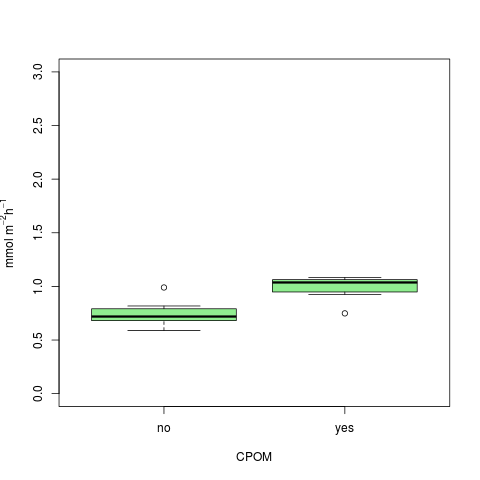
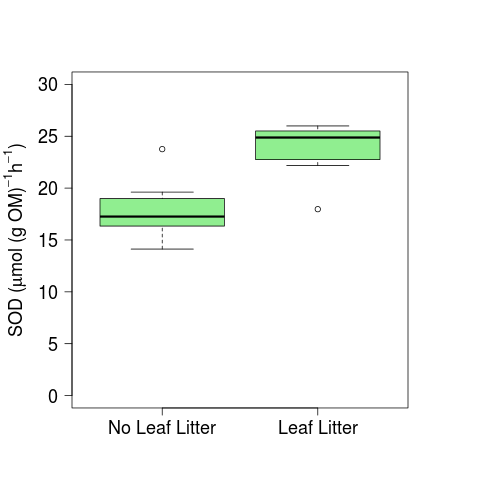
refined plots again

diff --git a/lab_notebook_entries/data_analysis/code/CPOM_Flux_Exp_SOD_analysis.md b/lab_notebook_entries/data_analysis/code/CPOM_Flux_Exp_SOD_analysis.md
@@ -806,8 +806,27 @@ Residuals     11 0.14726 0.01339
 
 _Area SOD by CPOM_
 
-    plot(mean.OMflux ~ nutrient, data = sod17, ylab = expression(paste("mmol m"^{-2},"h"^{-1})), ylim = c(0, 3 ), col = "orange")
-    dev.copy(png, "./output/plots/CPOM_flux_OMflux_by_Nutrient_all.png")
+    plot((mean.OMflux * 24) ~ CPOM, data = sod17, ylab = expression(paste("SOD (", mu,"mol (g OM)"^{-1},"h"^{-1}, ")")), ylim = c(0, 30), col = "light green", axes = F, xlab = " ", cex.lab = 1.5)
+    axis(1, at = c(1, 2), labels = c("No Leaf Litter", "Leaf Litter"), cex.axis = 1.5)
+    axis(2, las = 2, cex.axis = 1.5)
+    box()
+    dev.copy(png, "./output/plots/CPOM_flux_OMflux_by_CPOM_all.png")
+    dev.off()
+    dev.copy(pdf, "./output/plots/CPOM_flux_OMflux_by_CPOM_all.pdf")
+    dev.off()
+
+![OM normalized SOD by CPOM](../output/plots/CPOM_flux_OMflux_by_CPOM_all.png)
+
+_OM Normalized SOD by CPOM_
+
+
+    plot((mean.OMflux * 24) ~ nutrient, data = sod17, ylab = expression(paste("SOD (", mu,"mol (g OM)"^{-1},"h"^{-1}, ")")), ylim = c(0, 30), col = "orange", axes = F, xlab = " ", cex.lab = 1.5)
+    axis(1, at = c(1, 2), labels = c("Ambient Nutrients", "Enriched Nutrients"), cex.axis = 1.5)
+    axis(2, las = 2, cex.axis = 1.5)
+    box()
+    dev.copy(png, "./output/plots/CPOM_flux_OMflux_by_nutrient_all.png")
+    dev.off()
+    dev.copy(pdf, "./output/plots/CPOM_flux_OMflux_by_nutrient_all.pdf")
     dev.off()
 
 ![OM normalized SOD by CPOM](../output/plots/CPOM_flux_OMflux_by_nutrient_all.png)
@@ -876,7 +895,7 @@ _Areal SOD by Date with Nutrients_
     sod.OM <- sod.OM.mmol * 1000 # flux in umol O2 / g OM / d
 
     par(mar = c(5, 5, 5, 5))
-    plot(sod.OM ~ days.elap, data = sod.tot, subset = CPOM == "yes", pch = 19, ylim = c(0, 50), ylab = expression(paste("SOD (", mu,"mol (g OM)"^{-2}, "d"^{-1}, ")")), xlab = "Experiment Days", cex.lab = 1.5, axes = F, cex = 1.5, col = "brown")
+    plot(sod.OM ~ days.elap, data = sod.tot, subset = CPOM == "yes", pch = 19, ylim = c(0, 50), ylab = expression(paste("SOD (", mu,"mol (g OM)"^{-1}, "d"^{-1}, ")")), xlab = "Experiment Days", cex.lab = 1.5, axes = F, cex = 1.5, col = "brown")
     axis(1, las = 1, cex = 1.5)
     axis(2, las = 2, cex = 1.5)
     points(sod.OM ~ days.elap, data = sod.tot, subset = CPOM == "no", pch = 8, cex = 1.5, col = "blue")
@@ -891,7 +910,7 @@ _Areal SOD by Date with Nutrients_
 _OM normalized SOD by Date_
 
     par(mar = c(5, 5, 5, 5))
-    plot(sod.OM ~ days.elap, data = sod.tot, subset = nutrient == "yes", pch = 17, ylim = c(0, 50), ylab = expression(paste("SOD (", mu,"mol (g OM)"^{-2}, "d"^{-1}, ")")), xlab = "Experiment Days", cex.lab = 1.5, axes = F, cex = 1.5, col = "brown")
+    plot(sod.OM ~ days.elap, data = sod.tot, subset = nutrient == "yes", pch = 17, ylim = c(0, 50), ylab = expression(paste("SOD (", mu,"mol (g OM)"^{-1}, "d"^{-1}, ")")), xlab = "Experiment Days", cex.lab = 1.5, axes = F, cex = 1.5, col = "brown")
     axis(1, las = 1, cex = 1.5)
     axis(2, las = 2, cex = 1.5)
     points(sod.OM ~ days.elap, data = sod.tot, subset = nutrient == "no", pch = 8, cex = 1.5, col = "blue")
